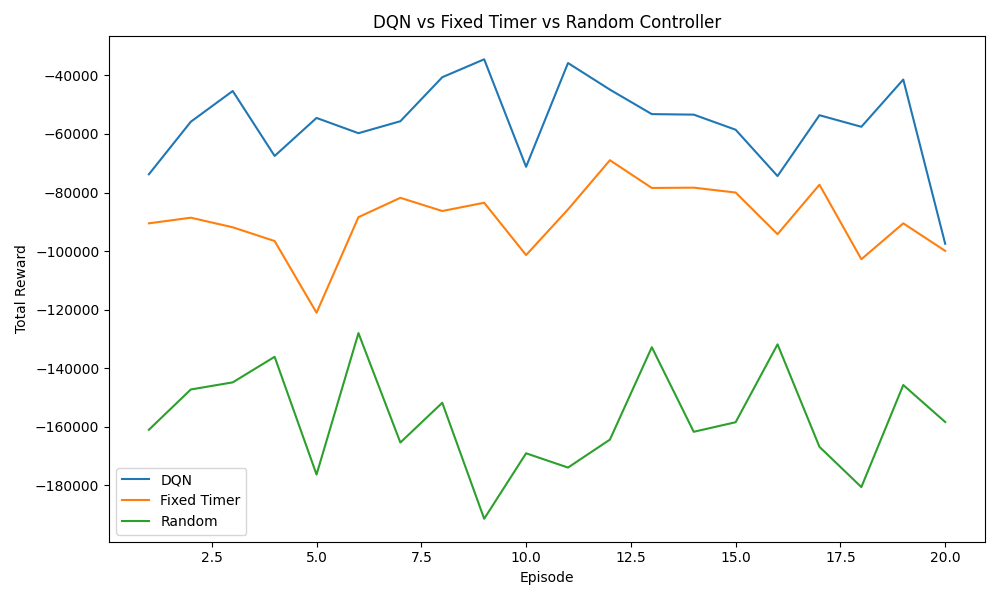
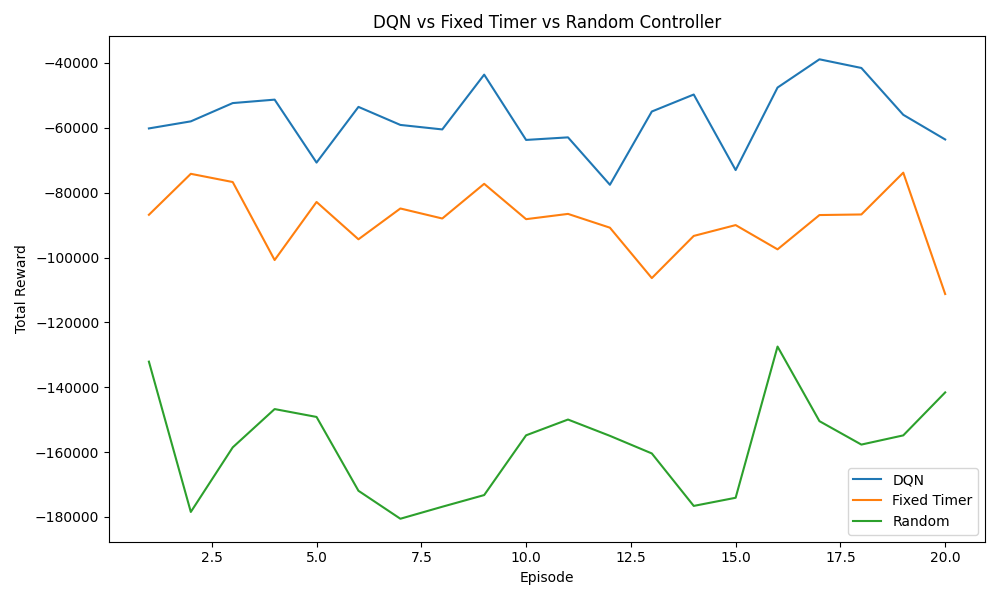
add robustness testing groundwork, configurable arrival rate multipliers

diff --git a/env/traffic_env.py b/env/traffic_env.py
@@ -11,7 +11,8 @@ class TrafficEnv(gym.Env):
 
 
 
-    def __init__(self):
+    def __init__(self, ns_multiplier=1.0, ew_multiplier=1.0):
+
         super().__init__()  # runs 'Gymnasium' setup code before we add ours
 
 
@@ -36,13 +37,15 @@ class TrafficEnv(gym.Env):
 
         # variables to track state of intersection at a given time
         # can be thought of as memory of simulation
-        self.ns_queue = 0           # number of cars waiting in the N/S direction
-        self.ew_queue = 0           # number of cars waiting in the E/W direction
-        self.current_phase = 0      # which direction has the green light currently
-        self.time_in_phase = 0      # how long has the green light been green for
-        self.step_count = 0         # how many timesteps have passed in the current episode
-        self.min_green_time = 5     # minimum timesteps a light must stay green before switching is allowed
-        self.max_queue = 50         # maximum queue length before overflow penalty is applied
+        self.ns_queue = 0                   # number of cars waiting in the N/S direction
+        self.ew_queue = 0                   # number of cars waiting in the E/W direction
+        self.current_phase = 0              # which direction has the green light currently
+        self.time_in_phase = 0              # how long has the green light been green for
+        self.step_count = 0                 # how many timesteps have passed in the current episode
+        self.min_green_time = 5             # minimum timesteps a light must stay green before switching is allowed
+        self.max_queue = 50                 # maximum queue length before overflow penalty is applied
+        self.ns_multiplier = ns_multiplier  # scales N/S arrival rates for robustness testing
+        self.ew_multiplier = ew_multiplier  # scales E/W arrival rates for robustness testing
 
 
 
@@ -67,17 +70,22 @@ class TrafficEnv(gym.Env):
 
     # simulates time-of-day traffic patterns to challenge agent
     # returns N/S arrival rate & E/W arrival rate
+    # multipliers default to 1.0 (no change) during training
+    # -> multipliers can be adjusted at evaluation time to test robustness
     def _get_arrival_rates(self):
-        if self.step_count < 100:   # quiet period
-            return 1, 1
-        elif self.step_count < 200: # morning rush - N/S heavy
-            return 5, 1
-        elif self.step_count < 300: # midday - moderate and balanced
-            return 2, 2
-        elif self.step_count < 400: # evening rush - both directions busy
-            return 4, 3
-        else:                       # night - low traffic
-            return 1, 1
+        if self.step_count < 100:           # quiet period
+            ns, ew = 1, 1
+        elif self.step_count < 200:         # morning rush - N/S heavy
+            ns, ew = 5, 1
+        elif self.step_count < 300:         # midday - moderate and balanced
+            ns, ew = 2, 2
+        elif self.step_count < 400:         # evening rush - both directions busy
+            ns, ew = 4, 3
+        else:                               # night - low traffic
+            ns, ew = 1, 1
+        
+        # returns final N/S & E/W values after multiplier is accounted for
+        return ns * self.ns_multiplier, ew * self.ew_multiplier
 
 
 